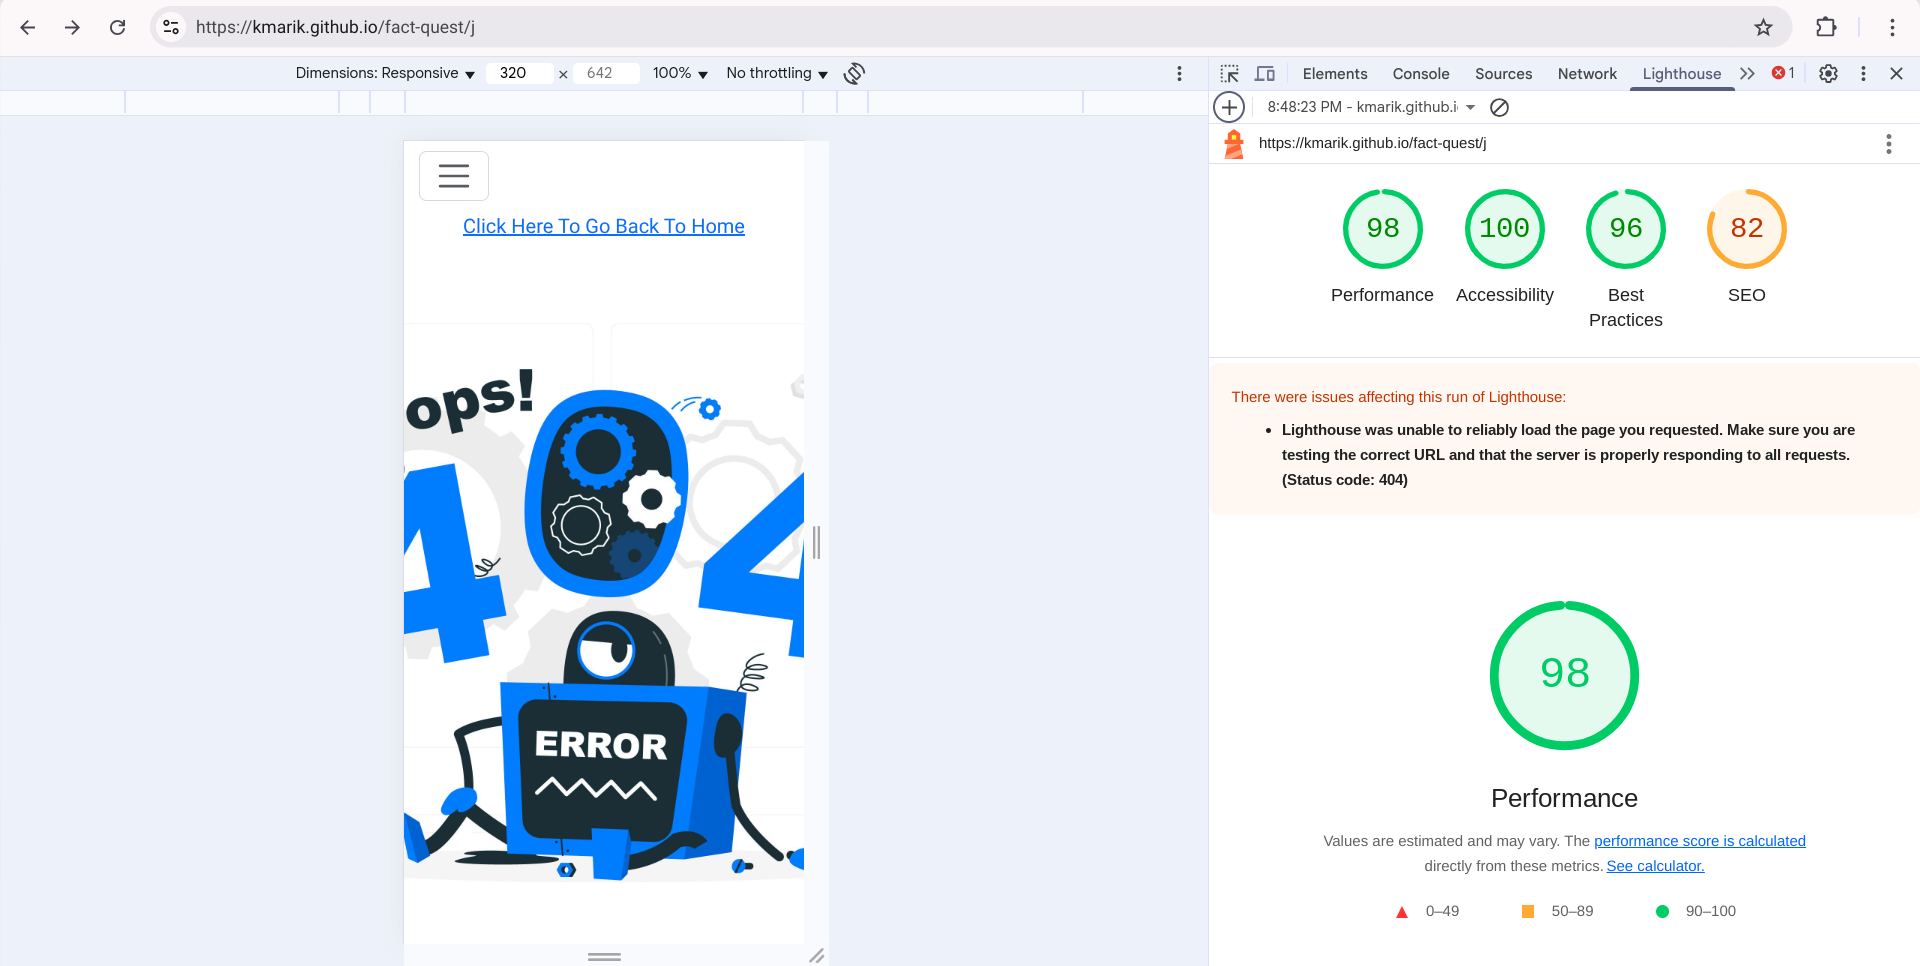
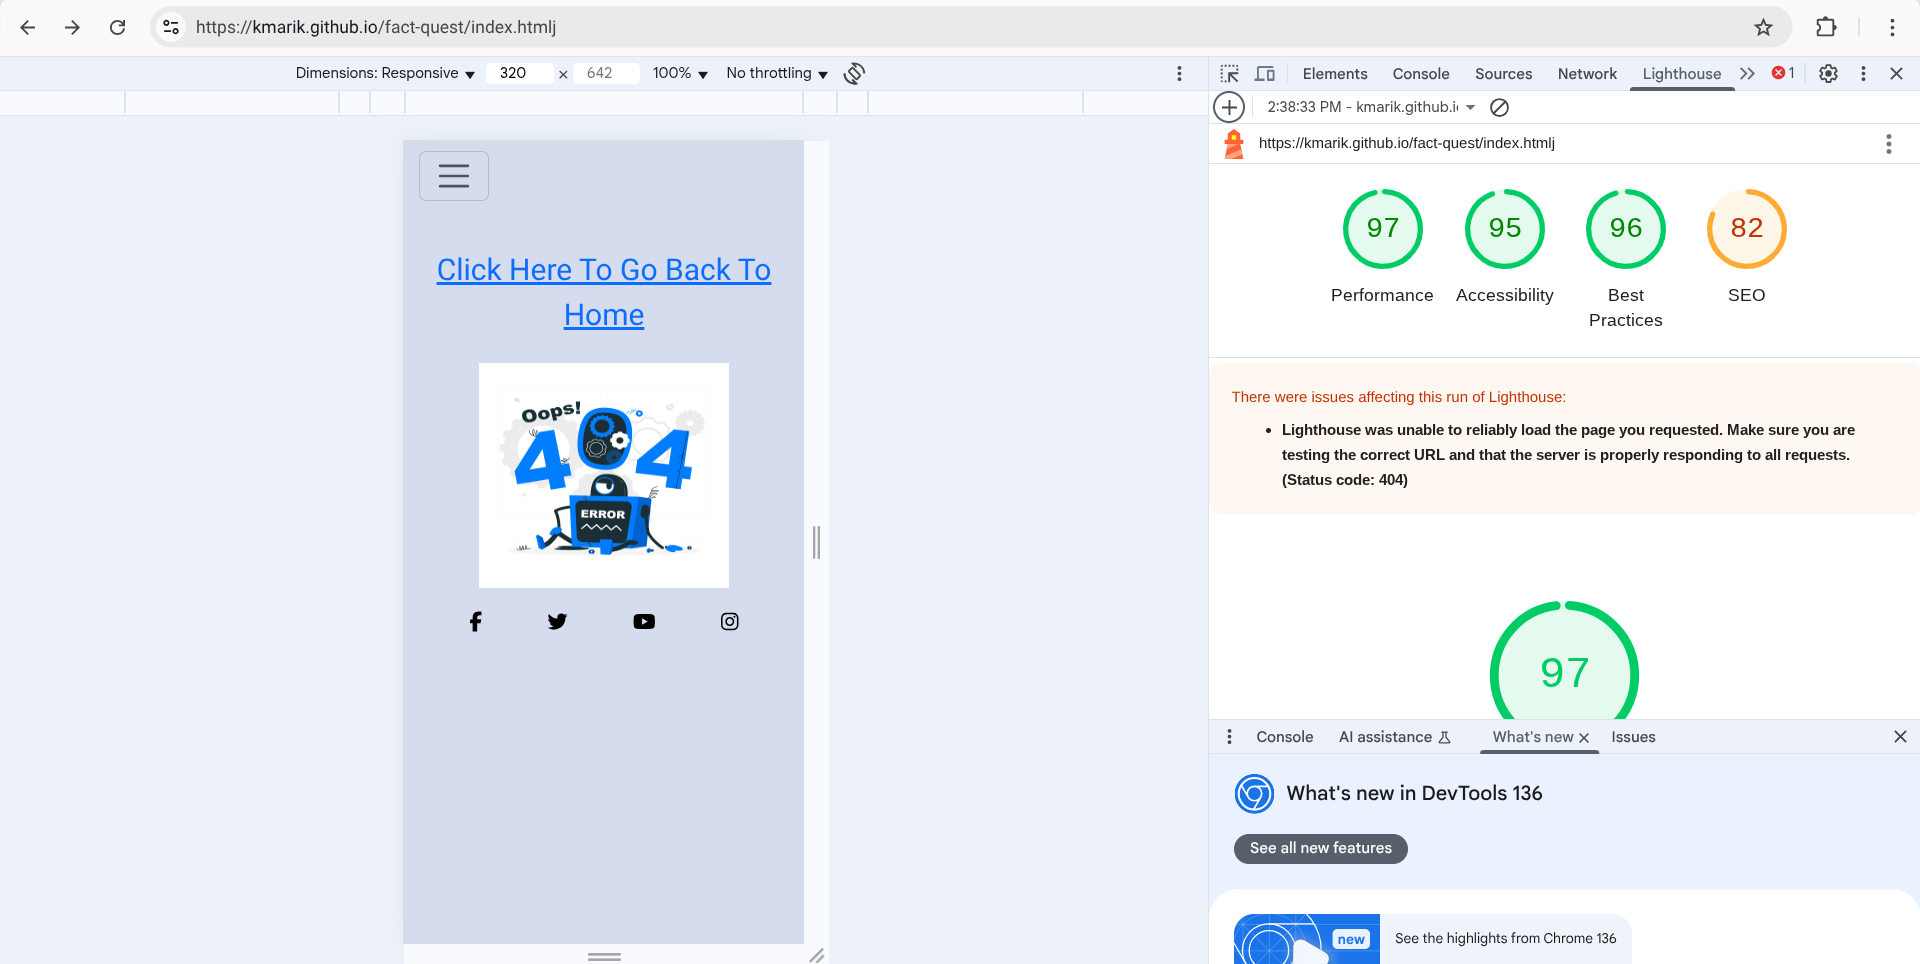
Edit 404 page performance in readme file

diff --git a/404.html b/404.html
@@ -10,16 +10,18 @@
     <script src="https://kit.fontawesome.com/e381d3b8ae.js" crossorigin="anonymous"></script>
     <!-- Favicon -->
     <link rel="icon" type="image/png" sizes="16x16" href="assets/images/favicon.png">
-    <title>404</title>
+    <title>About us</title>
 </head>
 
-<body class="index-page">
-<div class="page-container">
-  <div class="content-wrap">
-    <header>
+<body>
+  <div class="page-container">
+    <div class="content-wrap">
+
+      <header>
       <!--Navigation (Bootstrap)-->
       <nav id="navbar" class="navbar navbar-expand-lg">
           <div class="container">
+            <a class="navbar-brand"  id="logo" href="index.html">Fact Quest</a>
             <button class="navbar-toggler" type="button" data-bs-toggle="collapse" data-bs-target="#navbarNav" aria-controls="navbarNav" aria-expanded="false" aria-label="Toggle navigation">
               <span class="navbar-toggler-icon"></span>
             </button>
@@ -42,52 +44,51 @@
           </div>
         </nav>
       </header>
-
-      <body class="index-page">
-    <div class="main-container">
-      <div id="error-page">
-        <div>
-          <a href="https://kmarik.github.io/fact-quest/">Click Here To Go Back To Home</a>
-        </div>
-        <div>
-          <img src="assets/images/404-error.jpg" alt="404 Image" width="600%" height="600%">
+     
+      <div class="main-container">
+        <div id="error-page">
+          <div>
+            <a href="https://kmarik.github.io/fact-quest/">Click Here To Go Back To Home</a>
           </div>
+          <div>
+            <img src="assets/images/404-error.jpg" alt="404 Image" width="300" height="300">
+            </div>
     </div>
-    
-  </div>
 
-    <footer class="mt-auto">
-      <div class="container-fluid">
-        <div class="row justify-content-center">
-          <!--Social Medias-->
-          <ul id="social-medias" >
-            <li>
-                <a href="https://www.facebook.com/" target="_blank" rel="noopener"
-                    aria-label="Visit our Facebook page (opens in a new tab)"><i class="fa-brands fa-facebook-f"></i>
-                  </a>
-            </li>
-            <li>
-                <a href="https://www.twitter.com/" target="_blank" rel="noopener"
-                    aria-label="Visit our Twitter page (opens in a new tab)"><i class="fa-brands fa-twitter"></i>
-                  </a>
-            </li>
-            <li>
-                <a href="https://www.youtube.com/" target="_blank" rel="noopener"
-                    aria-label="Visit our YouTube page (opens in a new tab)">
-                    <i class="fa-brands fa-youtube"></i></a>
-            </li>
-            <li>
-                <a href="https://www.instagram.com/" target="_blank" rel="noopener"
-                    aria-label="Visit our Instagram page (opens in a new tab)">
-                    <i class="fa-brands fa-instagram"></i></a>
-            </li>
-        </ul>
-        </div>
-      </div>
+<footer class="mt-auto">
+  <div class="container-fluid">
+    <div class="row justify-content-center">
+      <!--Social Medias-->
+      <ul id="social-medias">
+        <li>
+            <a href="https://www.facebook.com/" target="_blank" rel="noopener"
+                aria-label="Visit our Facebook page (opens in a new tab)"><i class="fa-brands fa-facebook-f"></i>
+              </a>
+        </li>
+        <li>
+            <a href="https://www.twitter.com/" target="_blank" rel="noopener"
+                aria-label="Visit our Twitter page (opens in a new tab)"><i class="fa-brands fa-twitter"></i>
+              </a>
+        </li>
+        <li>
+            <a href="https://www.youtube.com/" target="_blank" rel="noopener"
+                aria-label="Visit our YouTube page (opens in a new tab)">
+                <i class="fa-brands fa-youtube"></i></a>
+        </li>
+        <li>
+            <a href="https://www.instagram.com/" target="_blank" rel="noopener"
+                aria-label="Visit our Instagram page (opens in a new tab)">
+                <i class="fa-brands fa-instagram"></i></a>
+        </li>
+    </ul>
+    </div>
+  </div>
 </footer>
   
 
+
+</div>  
 <script src="https://cdn.jsdelivr.net/npm/bootstrap@5.3.6/dist/js/bootstrap.bundle.min.js" integrity="sha384-j1CDi7MgGQ12Z7Qab0qlWQ/Qqz24Gc6BM0thvEMVjHnfYGF0rmFCozFSxQBxwHKO" crossorigin="anonymous"></script>
-<script src="assets/js/script.js"></script>
+  <script src="assets/js/script.js"></script>
 </body>
 </html>

diff --git a/assets/css/style.css b/assets/css/style.css
@@ -256,7 +256,7 @@
     }
 
     #game-image {
-        width: 300px;
+        width: 200px;
         height: 200px;
     }
 
@@ -316,8 +316,8 @@
    }
 
 #error-page img {
-    width: 200px;
-    height: 200px;
+    width: 300px;
+    height: 300px;
 }
    }
     

diff --git a/readme.md b/readme.md
@@ -404,7 +404,7 @@ The website was tested on the following browsers:
 | ----------- | ----------- |
 | The menu not opening on smaller screen sizes (320px, 576px and 768px) | Copied the JS scripted tag from Bootstrap  |
 | Image on quiz game was not loading | Added 'image'wrapper' div to html with the image src inside and on JS added 'const wrapEl = document.getElementById("image-wrapper");; to the loadQuestion fuction
-| Home page content was not centering in the middle of the page | The custom CSS code I had for the home page styling was conflicting with Bootstraps styles. So I had to remove it and replaced it with Bootstrap utility classes instead.
+| Home page content was not centering to the middle of the page | The custom CSS code I had for the home page styling was conflicting with Bootstraps styles. So I had to remove it and replaced it with Bootstrap utility classes instead.
 
 
 
